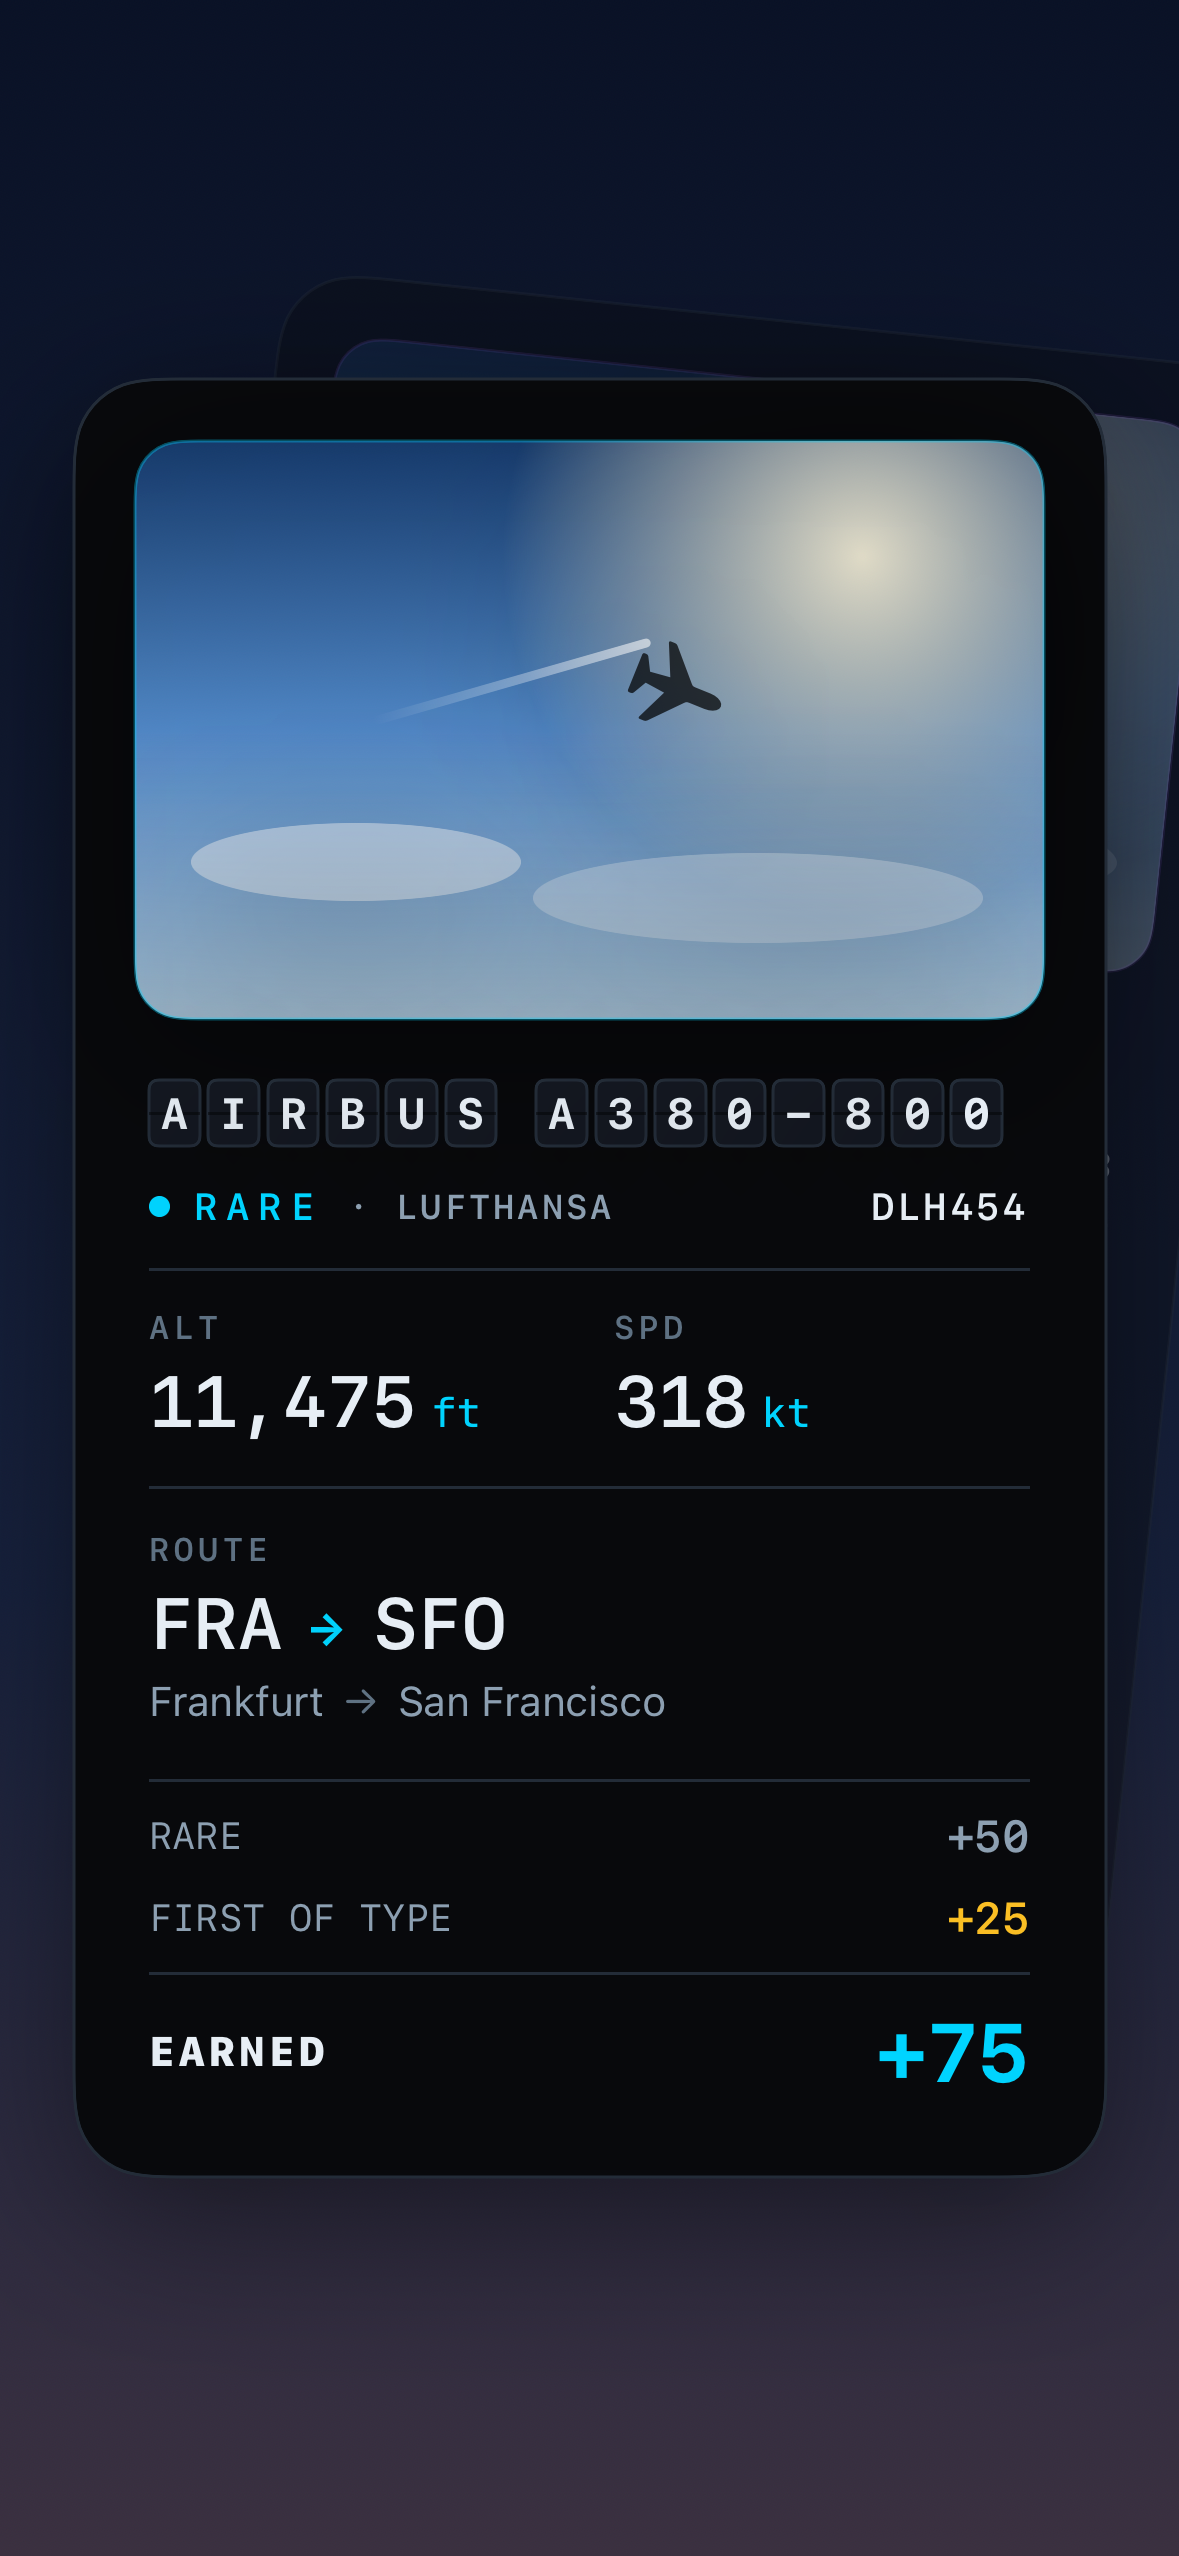
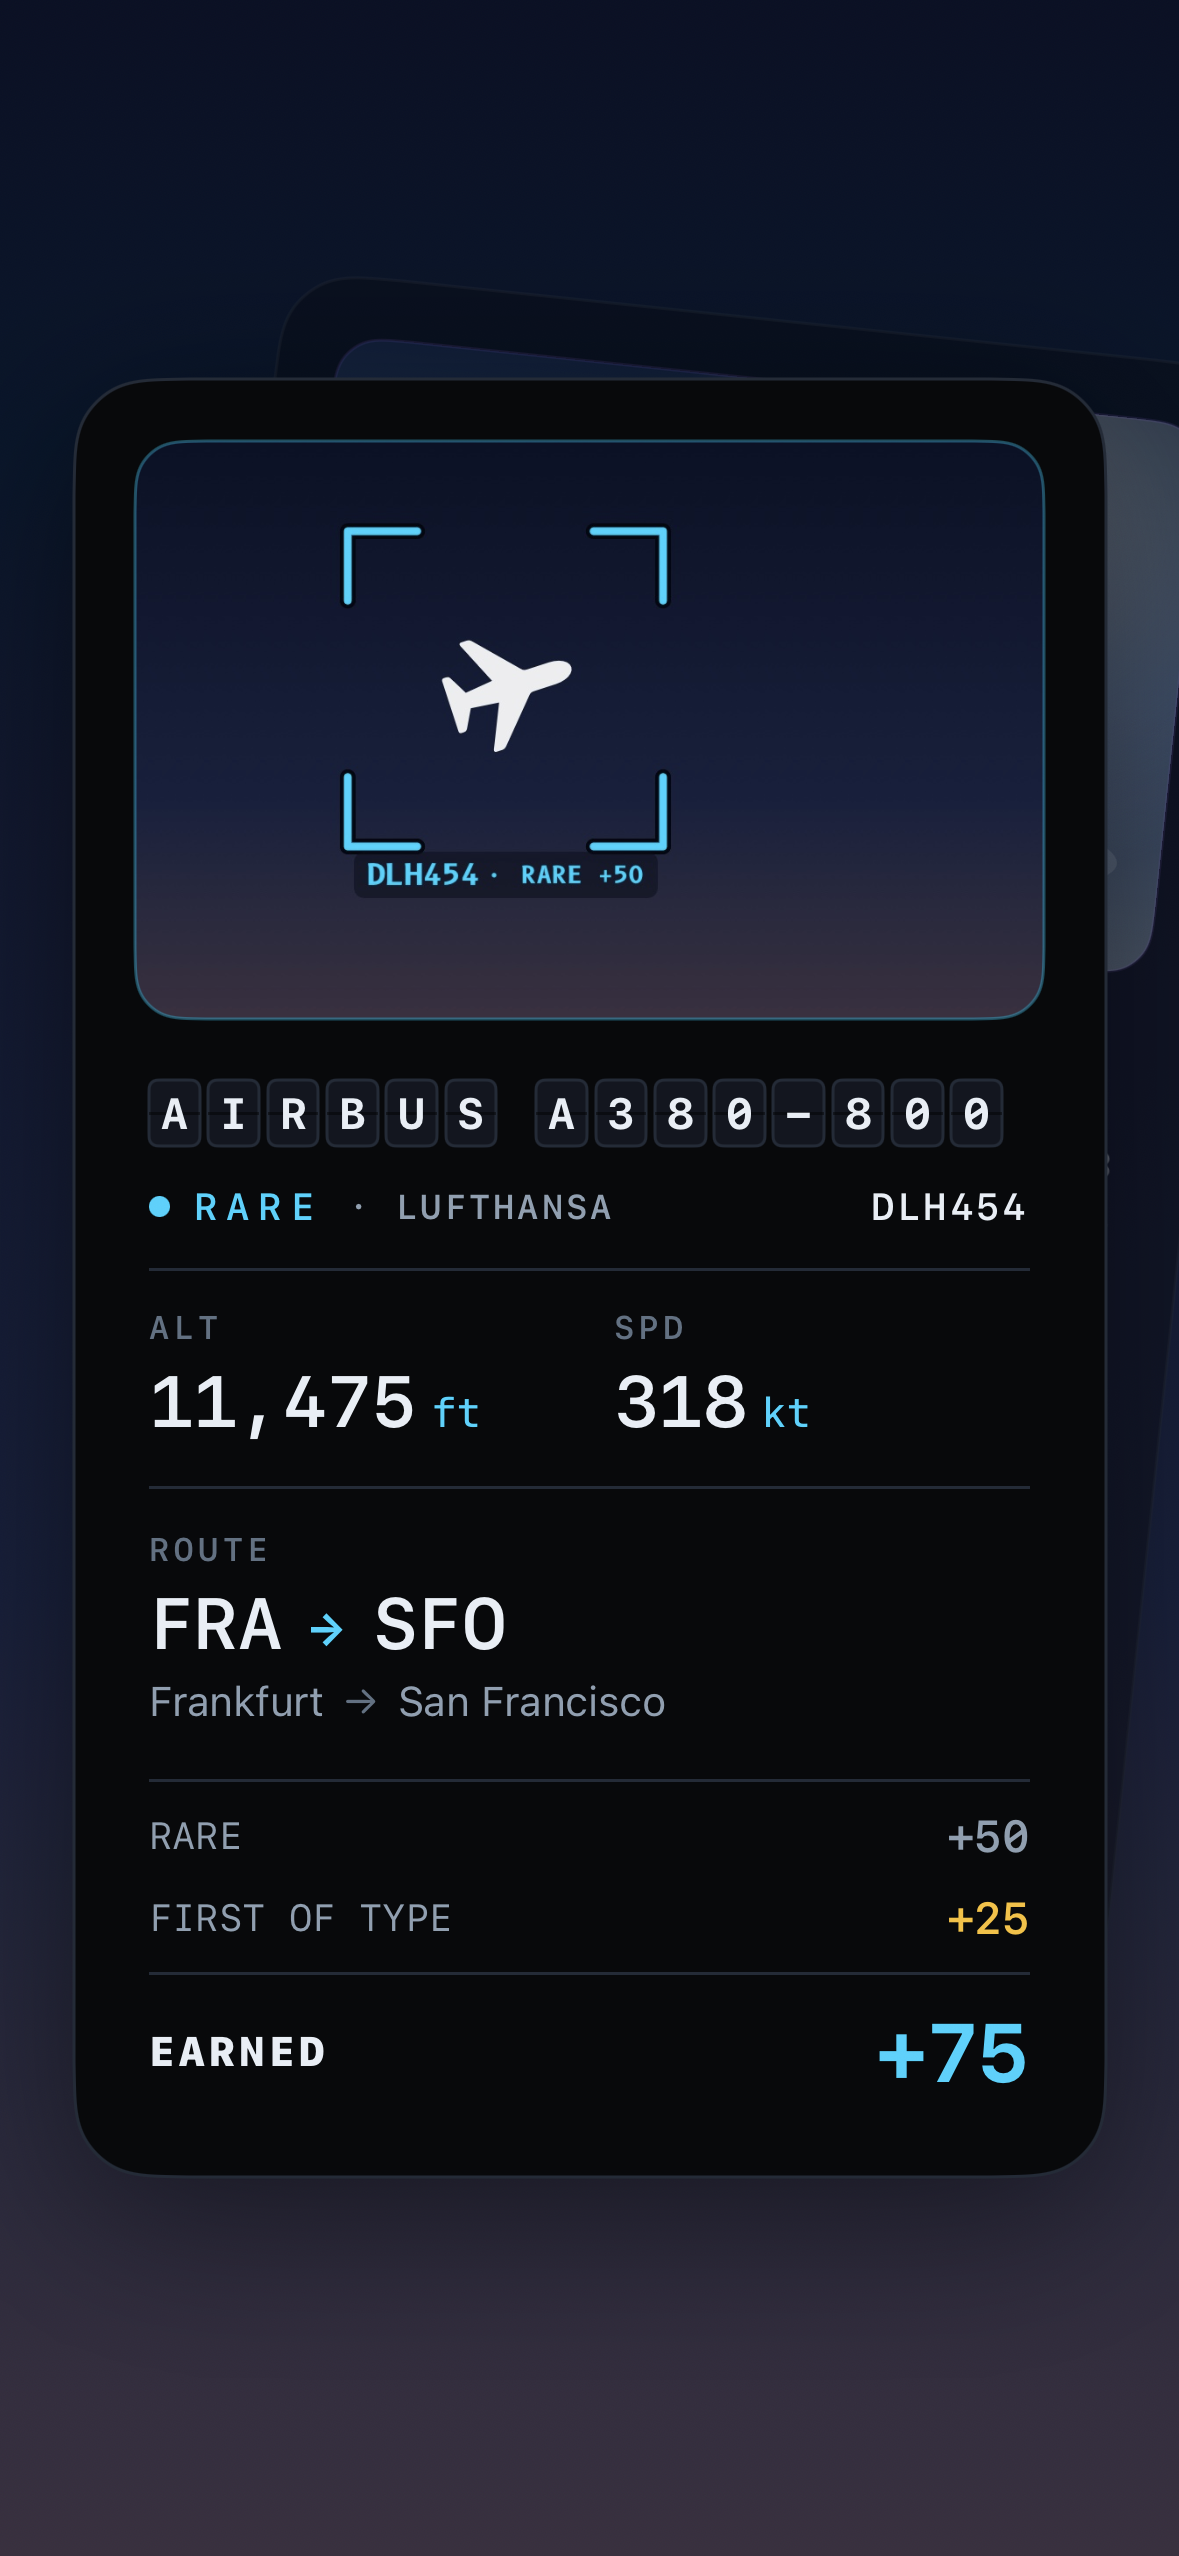
Slide 2: crop the AR lock-on moment into the collection card's photo
Noah's follow-up on the screenshot set: the collection card's hero now
shows the slide-1 lock-on visual (brackets + DLH454 pill over the dusk
sky), rendered to a JPEG at the hero's aspect and fed in as the card's
catch photo via CardPlane.photoURL — slide 1's catch literally lands in
slide 2's collection.

Render note: this shot uses an offscreen window + drawHierarchy instead
of ImageRenderer. RevealPhoto's .postHogMask wraps the photo in a UIKit
tag view, and ImageRenderer draws platform views as the yellow no-entry
placeholder; drawHierarchy renders it correctly (no .glassEffect in the
card, so the glass-garble caveat doesn't apply).

diff --git a/ios/Tailspot/TailspotTests/MarketingSnapshotTests.swift b/ios/Tailspot/TailspotTests/MarketingSnapshotTests.swift
@@ -201,14 +201,70 @@ struct MarketingSnapshotTests {
 
     // MARK: - Shot 2b · The collection card (stylized, same sky as shot 1)
 
+    /// The shot-1 AR lock-on moment re-composed at the card hero's landscape
+    /// aspect — this becomes the front card's "catch photo", so slide 2
+    /// literally shows the slide-1 catch filed into the collection.
+    /// RevealPhoto decodes file URLs synchronously (its ImageRenderer
+    /// contract), so a pre-rendered JPEG on disk shows up in a static render.
+    private func arHeroPhotoURL() -> URL? {
+        let pinnedRarity = resolveAROverlayRarity(
+            typecode: "A388", manufacturer: "Airbus", model: "A380-800",
+            operatorName: "Lufthansa")
+        let scene = ZStack {
+            LinearGradient(
+                stops: [
+                    .init(color: Color(red: 0.04, green: 0.07, blue: 0.15), location: 0),
+                    .init(color: Color(red: 0.09, green: 0.13, blue: 0.24), location: 0.62),
+                    .init(color: Color(red: 0.23, green: 0.19, blue: 0.25), location: 1),
+                ],
+                startPoint: .top, endPoint: .bottom
+            )
+            VStack(spacing: 2) {
+                ZStack {
+                    Image(systemName: "airplane")
+                        .font(.system(size: 44, weight: .regular))
+                        .foregroundStyle(.white.opacity(0.92))
+                        .rotationEffect(.degrees(-18))
+                    LockBrackets(boxSize: 120, color: Brand.Color.cyan,
+                                 opacity: 1.0, lineWidth: 3)
+                }
+                HStack(spacing: 4) {
+                    Text("DLH454")
+                        .font(Brand.Font.mono(size: 11, weight: .bold))
+                        .foregroundStyle(Brand.Color.cyan)
+                    Text("· \(pinnedRarity.label) +\(pinnedRarity.basePoints)")
+                        .font(Brand.Font.mono(size: 9, weight: .semibold))
+                        .foregroundStyle(pinnedRarity.tint)
+                }
+                .padding(.horizontal, 5)
+                .padding(.vertical, 2)
+                .background(Brand.Color.bgPrimary.opacity(0.55),
+                            in: .rect(cornerRadius: 4))
+            }
+            .position(x: 168, y: 104)
+        }
+        .frame(width: 400, height: 220)
+        let renderer = ImageRenderer(content: scene)
+        renderer.scale = 3
+        guard let img = renderer.uiImage,
+              let jpeg = img.jpegData(compressionQuality: 0.92) else { return nil }
+        let url = Self.dir.appendingPathComponent("ar_hero_photo.jpg")
+        try? FileManager.default.createDirectory(
+            at: Self.dir, withIntermediateDirectories: true)
+        try? jpeg.write(to: url)
+        return url
+    }
+
     /// "Add each catch to your collection" — the caught A380's settled card
-    /// floating in the shot-1 dusk sky, with a previous catch peeking out
-    /// behind it so it reads as a growing stack, not a lone receipt.
+    /// floating in the shot-1 dusk sky, its hero photo the AR lock-on moment
+    /// itself, with a previous catch peeking out behind it so it reads as a
+    /// growing stack, not a lone receipt.
     @Test func renderCollectionCard() {
         let front = CardPlane(
             callsign: "DLH454", model: "Airbus A380-800", carrier: "Lufthansa",
             rarity: .rare, type: .wide,
             altText: "11,475 ft", speedText: "318 kt", distText: "8.6 km",
+            photoURL: arHeroPhotoURL(),
             originIcao: "FRA", destIcao: "SFO",
             originName: "Frankfurt", destName: "San Francisco"
         )
@@ -236,7 +292,28 @@ struct MarketingSnapshotTests {
                 .shadow(color: .black.opacity(0.45), radius: 28, y: 14)
         }
         .frame(width: Self.screen.width, height: Self.screen.height)
-        write(view, name: "mkt_07_collection")
+        // NOT the ImageRenderer path: `.postHogMask` wraps the photo in a
+        // UIKit tag view, and ImageRenderer draws platform views as the
+        // yellow "no entry" placeholder. drawHierarchy in an offscreen
+        // window renders it fine (no .glassEffect in the card, so the
+        // glass-garble caveat doesn't apply).
+        let bounds = CGRect(origin: .zero, size: Self.screen)
+        let host = UIHostingController(rootView: view.ignoresSafeArea())
+        let window = UIWindow(frame: bounds)
+        window.rootViewController = host
+        window.overrideUserInterfaceStyle = .dark
+        window.isHidden = false
+        host.view.layoutIfNeeded()
+        RunLoop.main.run(until: Date().addingTimeInterval(0.4))
+        let fmt = UIGraphicsImageRendererFormat()
+        fmt.scale = 3
+        let renderer = UIGraphicsImageRenderer(bounds: bounds, format: fmt)
+        let png = renderer.pngData { _ in
+            host.view.drawHierarchy(in: bounds, afterScreenUpdates: true)
+        }
+        try? png.write(to: Self.dir.appendingPathComponent("mkt_07_collection.png"))
+        window.isHidden = true
+        Self.retained.append(window)
     }
 
     // MARK: - Shot 3 · The guess round (chips popped, route masked)

diff --git a/CHANGELOG.md b/CHANGELOG.md
@@ -33,7 +33,11 @@ rather than waiting on the field session. Two new durable pieces plus the deck:
 - Copy is Noah's (2026-07-20 review): sentence-style headlines, no label
   eyebrows. Slide 1 stays a stylized stand-in until the field session; the
   slide-2 "collection" shot is the settled A380 card stacked over a prior
-  catch in the same dusk sky.
+  catch in the same dusk sky — since 2026-07-21 (Noah's follow-up) the card's
+  hero photo IS the slide-1 AR lock-on moment, rendered to a JPEG and fed in
+  via `CardPlane.photoURL` (drawHierarchy render for this shot: `.postHogMask`
+  wraps the photo in a UIKit tag view, which ImageRenderer draws as the
+  yellow no-entry placeholder).
 
 Mid-session note: macOS revoked the session's ~/Desktop TCC access partway
 through round 1 (worked around via Finder AppleScript copies + an ios/ mirror